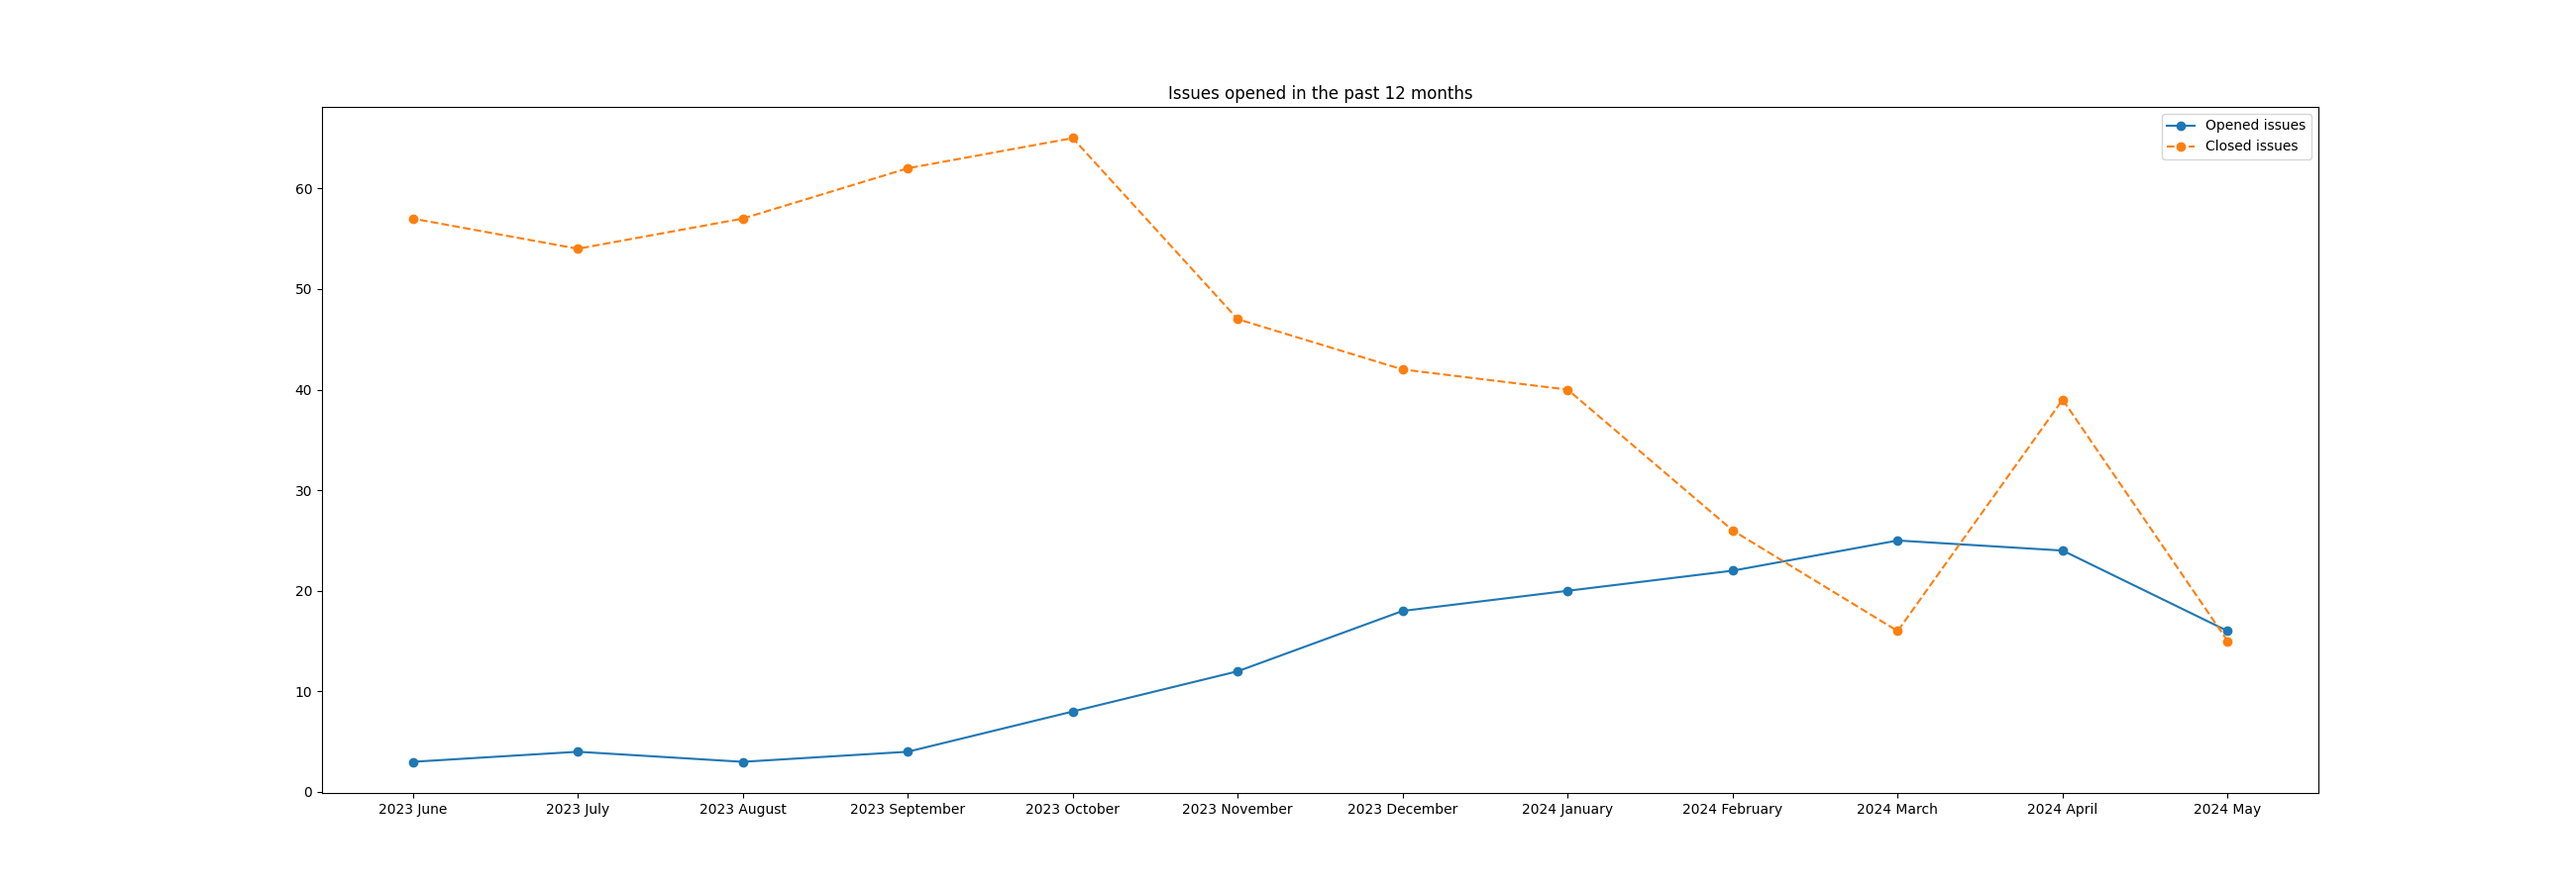
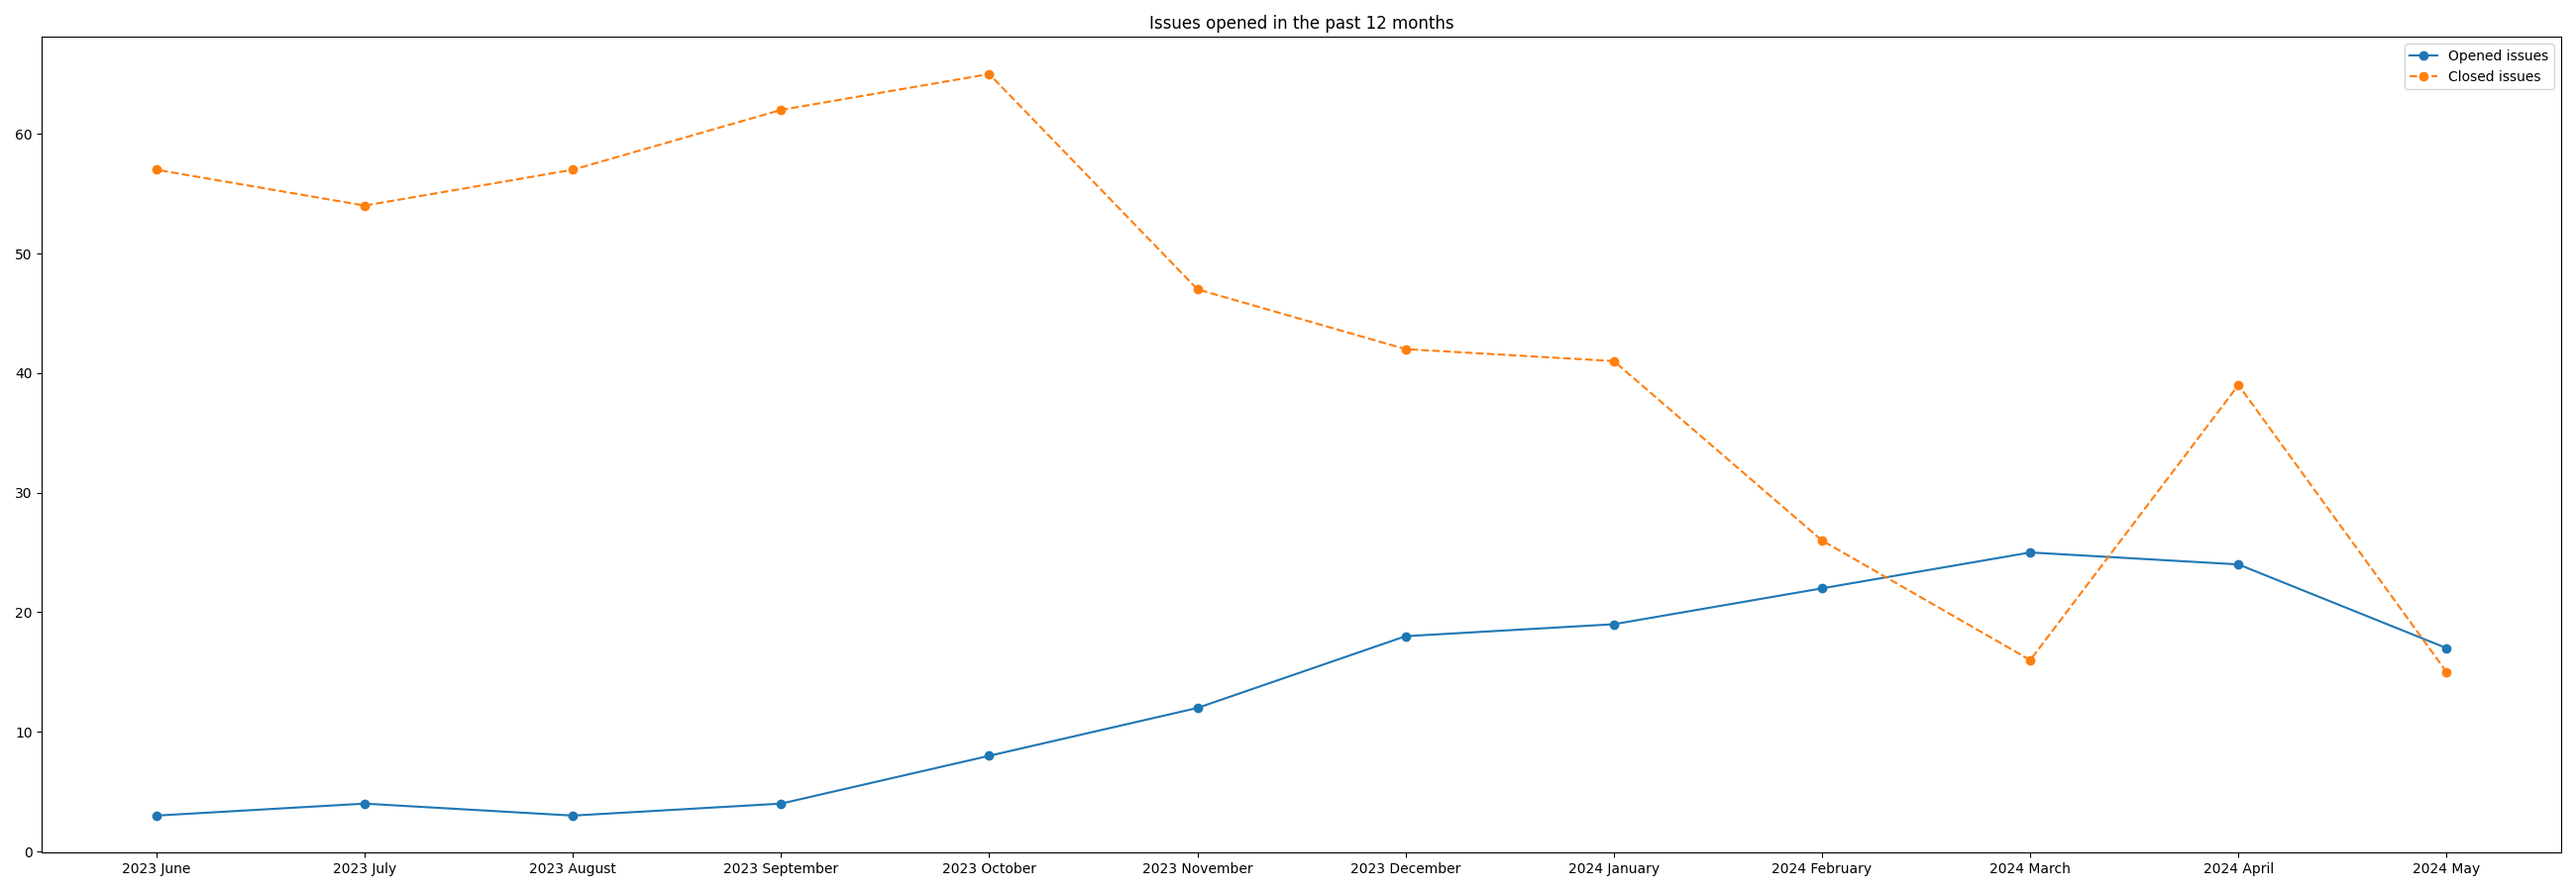
improve image size

diff --git a/charts.py b/charts.py
@@ -379,32 +379,38 @@ def _generate_and_save_plots(issues):
 
     with alive_bar(6, title="Generating and saving charts", unit=" charts") as bar:
         plt = plot_labels_pie(issue_labels)
+        plt.tight_layout()
         plt.savefig("images/stats-01.png")
 
         bar()
 
         plt = plot_components_issue_bar(issue_labels)
+        plt.tight_layout()
         plt.savefig("images/stats-02.png")
 
         bar()
 
         plt = plot_issues_in_the_past_12_months_line(
             df_issues, df_issues_closed)
+        plt.tight_layout()
         plt.savefig("images/stats-03.png")
 
         bar()
 
         plt = plot_backlog_grooming_line(df_issues, df_issues_closed)
+        plt.tight_layout()
         plt.savefig("images/stats-04.png")
 
         bar()
 
         plt = plot_closed_epics_line(df_issues_closed, label_v9, label_epic)
+        plt.tight_layout()
         plt.savefig("images/stats-05.png")
 
         bar()
 
         plt = plot_triage_issues_line(df_issues)
+        plt.tight_layout()
         plt.savefig("images/stats-06.png")
         bar()
 
